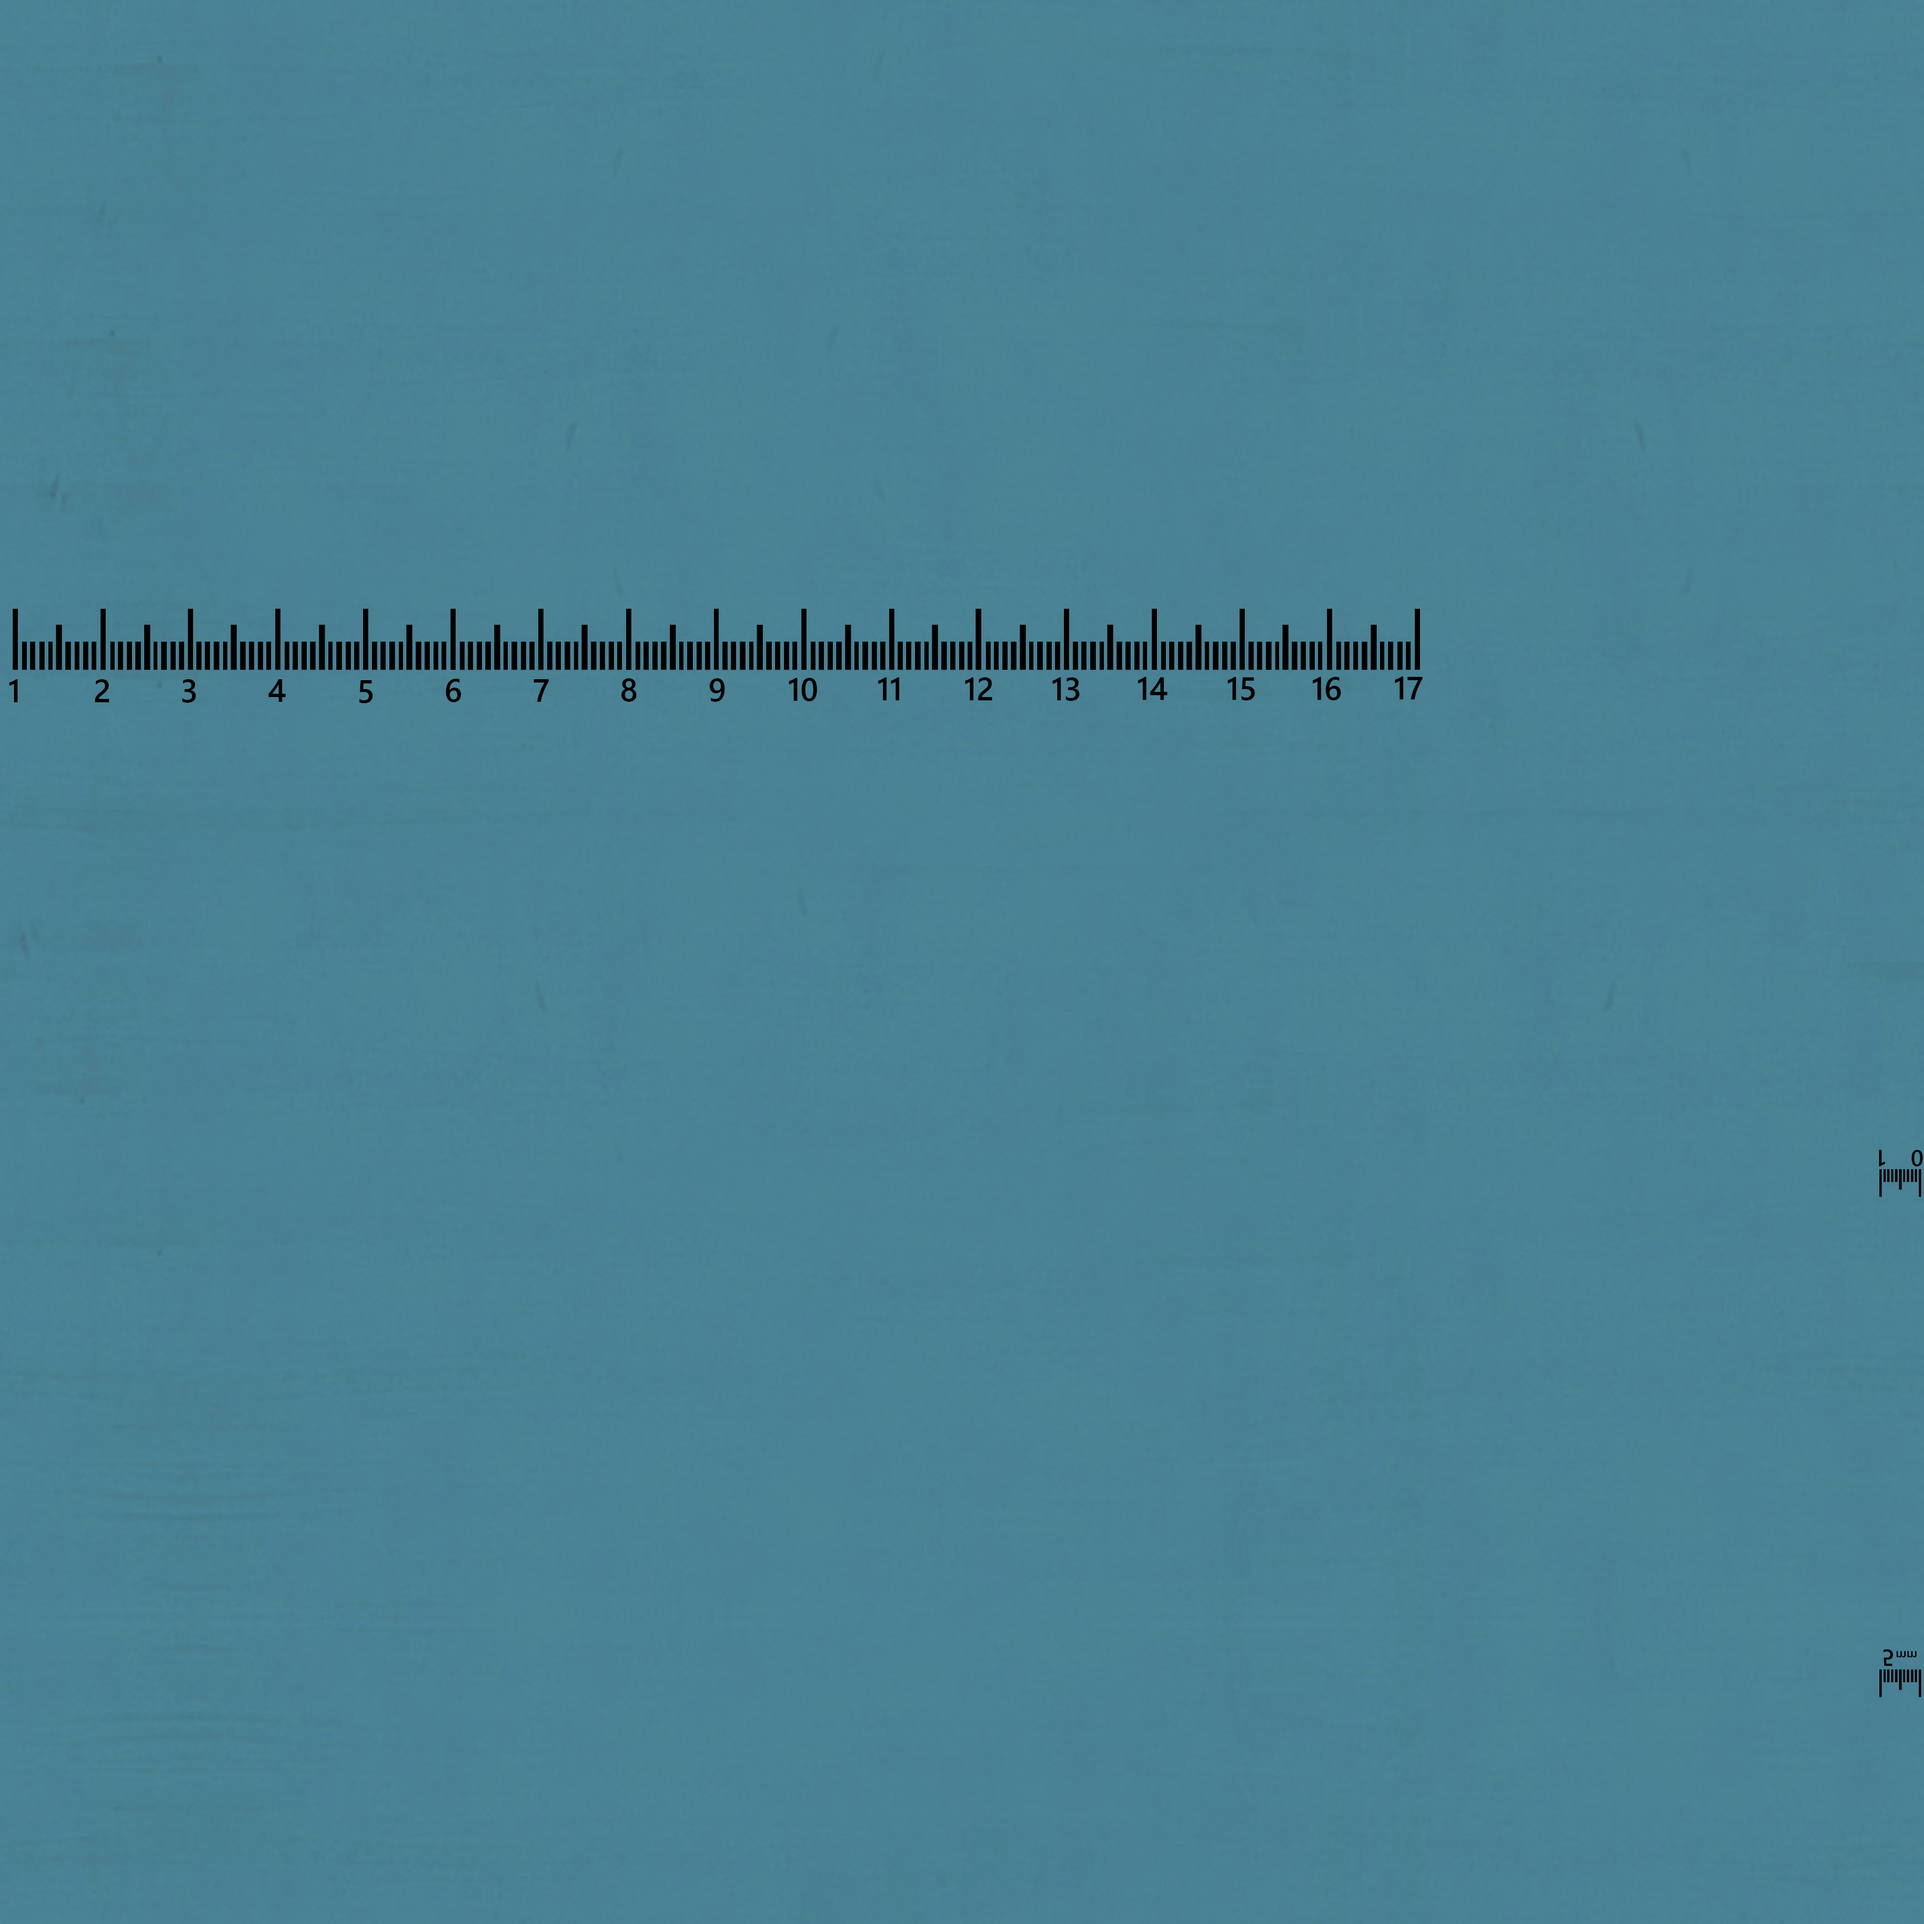
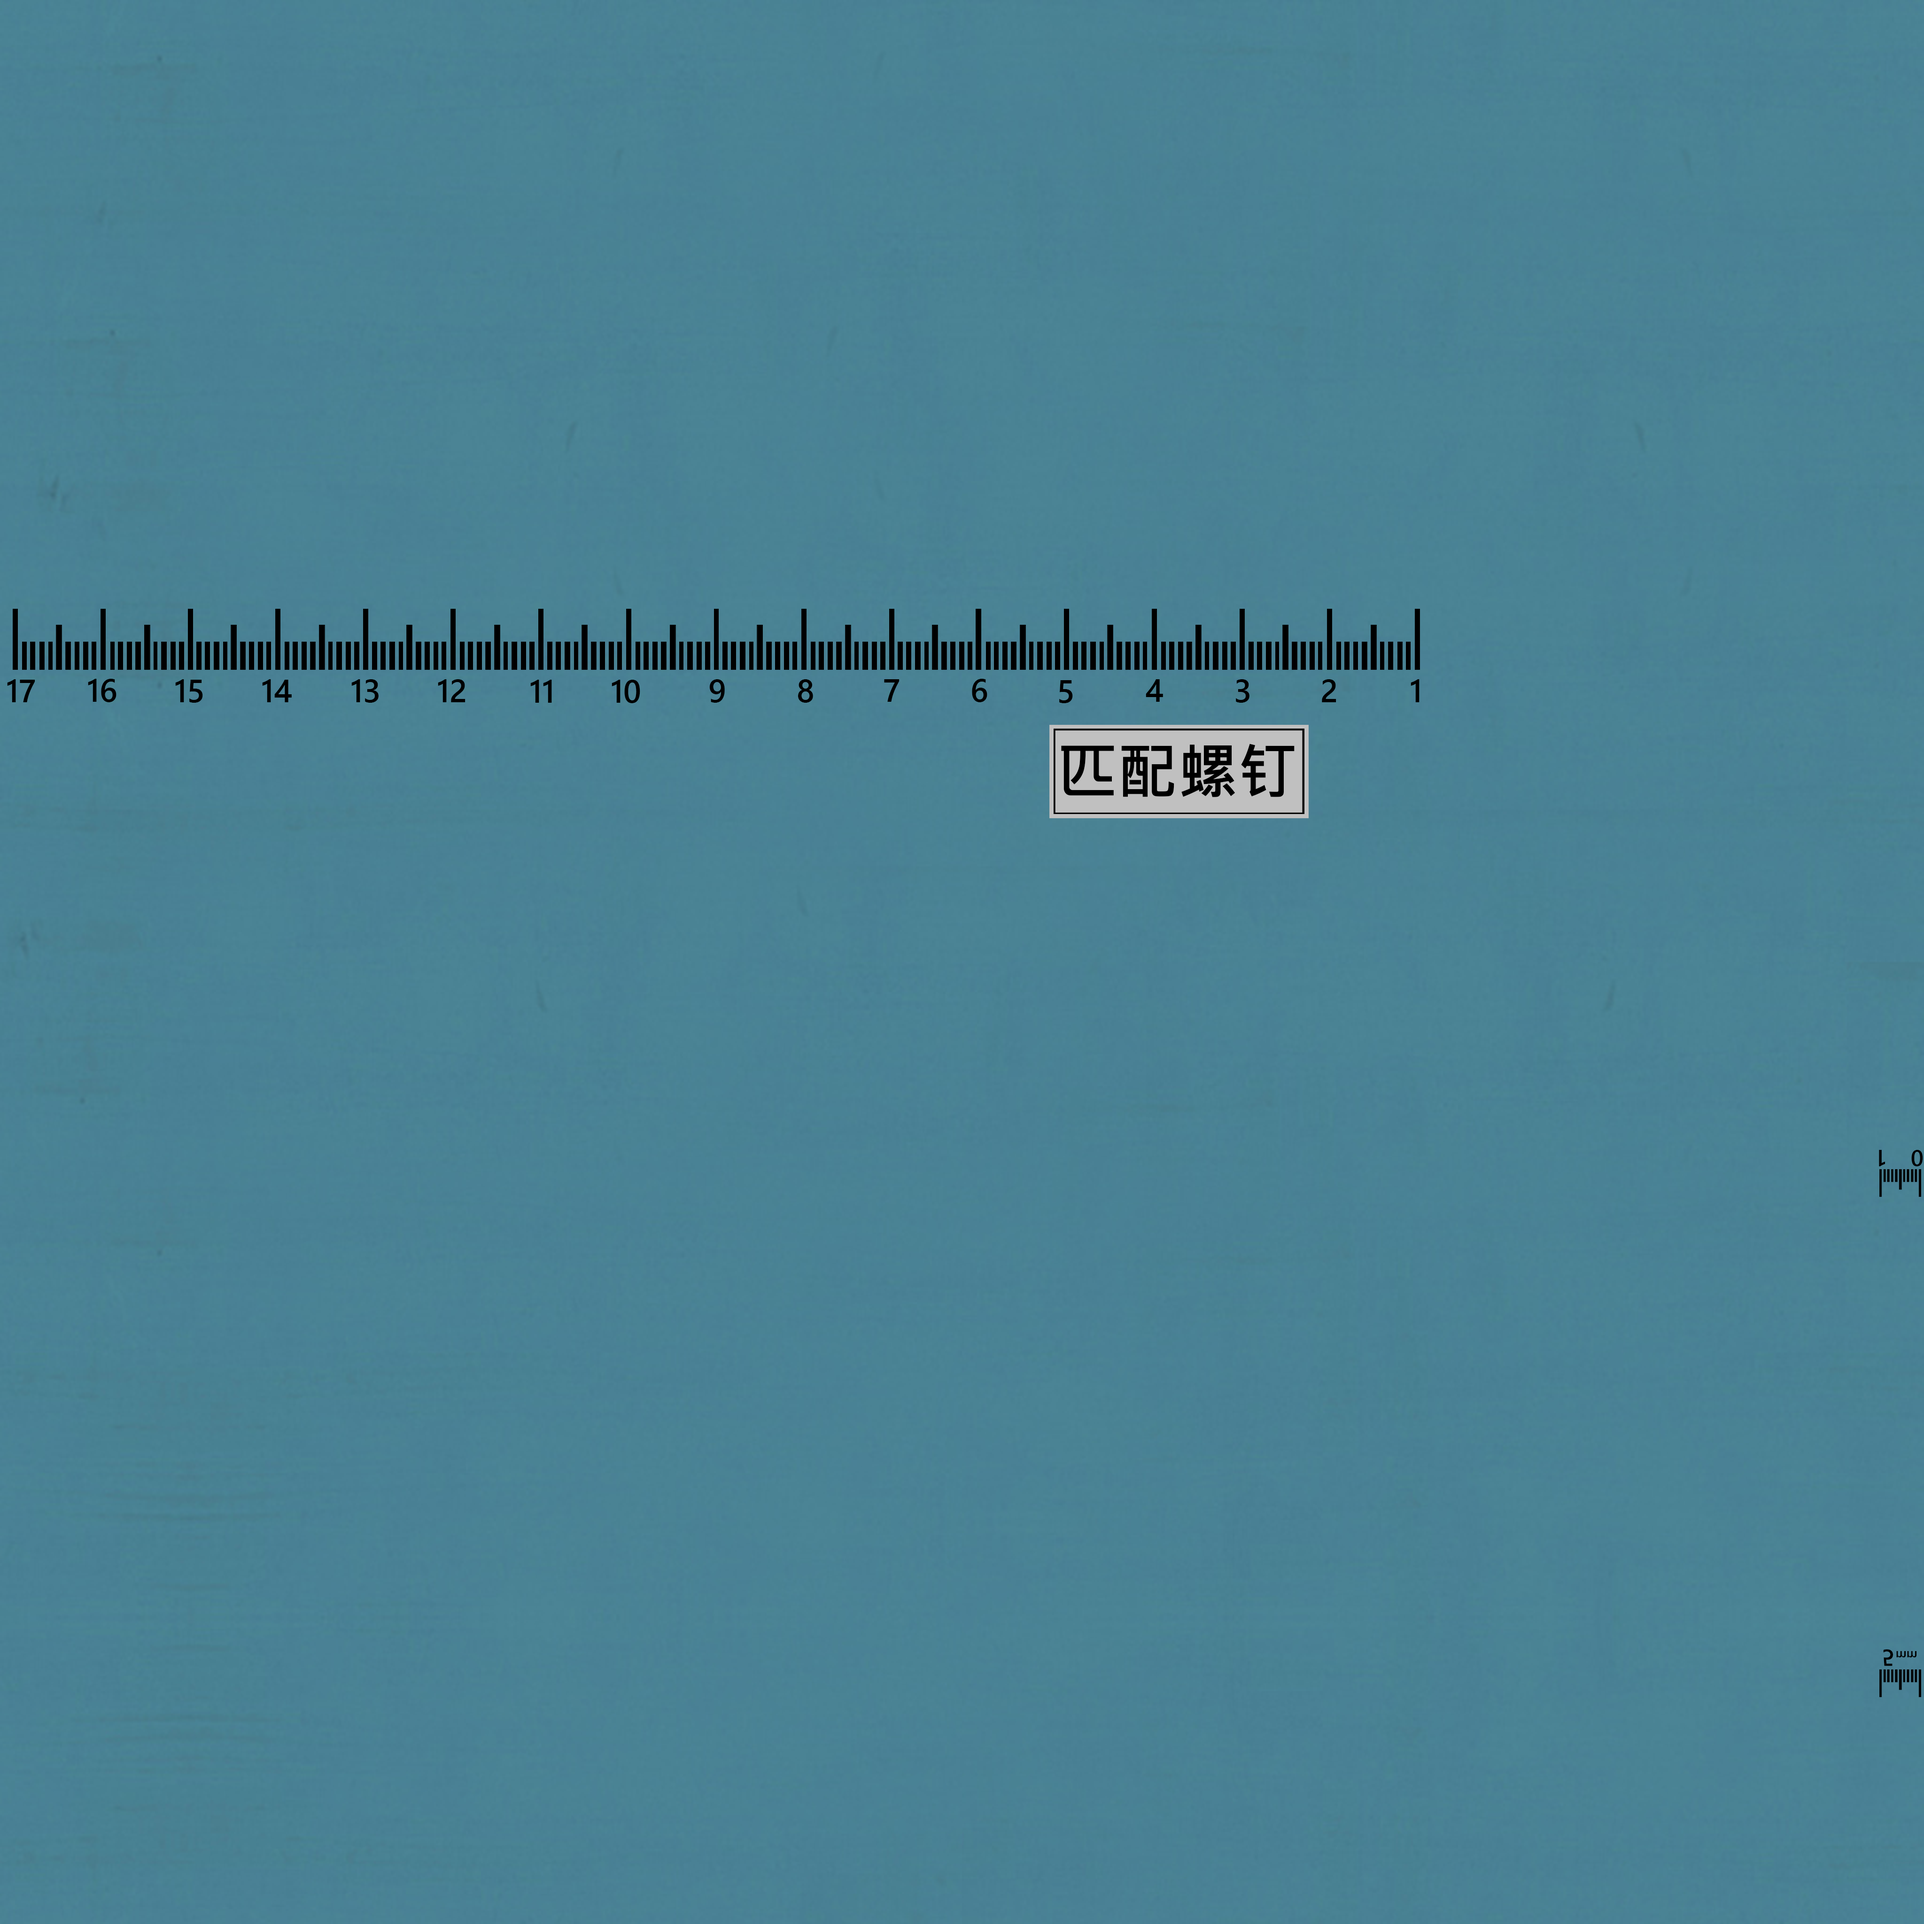
公式修改.更改匹配螺钉预制体

Changed region(s): [[0.5312, 0.3438, 0.6875, 0.4375], [0.4062, 0.3438, 0.4375, 0.375], [0.3125, 0.3438, 0.3438, 0.375]]

diff --git a/DLKJ/Scripts/TH_Scripts/MathFunction/MathTest.cs b/DLKJ/Scripts/TH_Scripts/MathFunction/MathTest.cs
@@ -38,7 +38,7 @@ namespace DLKJ
         }
         private void Start()
         {
-            MathTool.Init();
+            // MathTool.Init();
         }
         private void Update()
         {
